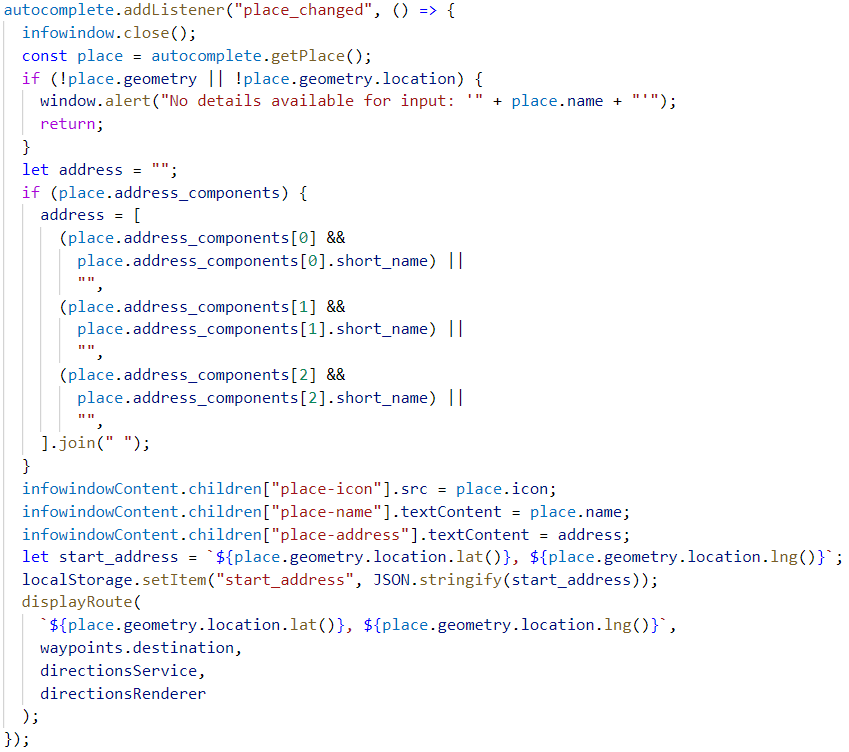
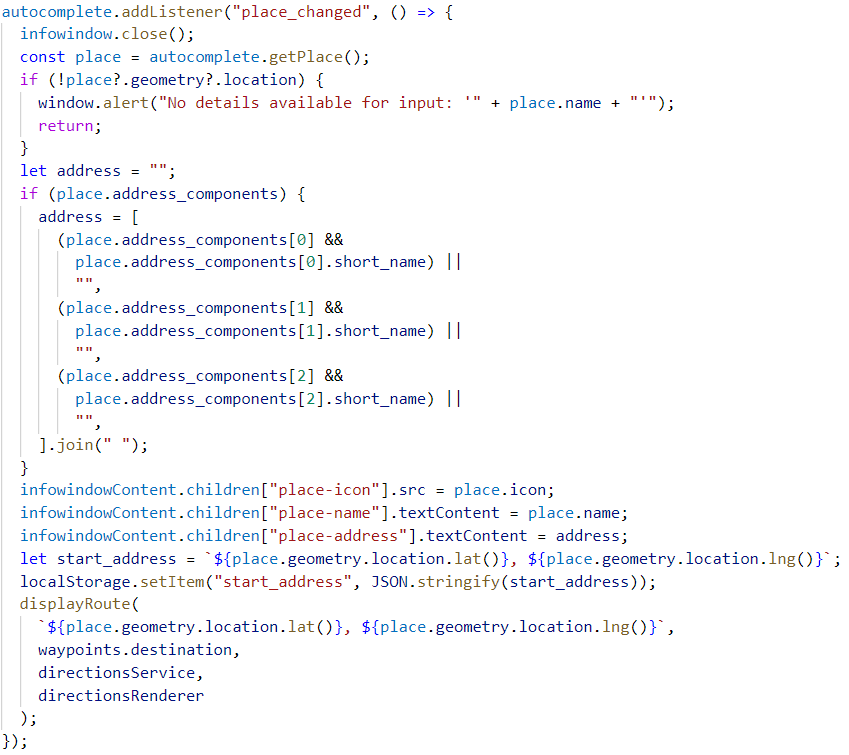
asd

Changed region(s): [[0.0, 0.0, 1.0, 1.0], [0.5512, 0.1223, 0.7962, 0.1529], [0.1531, 0.5811, 0.1837, 0.6117]]

diff --git a/public/js/autocomplete.js b/public/js/autocomplete.js
@@ -32,7 +32,7 @@ function auto1(directionsService, directionsRenderer, options) {
     autocomplete.addListener("place_changed", () => {
       infowindow.close();
       const place = autocomplete.getPlace();
-      if (!place.geometry || !place.geometry.location) {
+      if (!place?.geometry?.location) {
         window.alert("No details available for input: '" + place.name + "'");
         return;
       }
@@ -82,7 +82,7 @@ function auto2(directionsService, directionsRenderer, options) {
       infowindow2.close();
       const place2 = autocomplete2.getPlace();
   
-      if (!place2.geometry || !place2.geometry.location) {
+      if (!place2?.geometry?.location) {
         // User entered the name of a Place that was not suggested and
         // pressed the Enter key, or the Place Details request failed.
         window.alert("No details available for input: '" + place2.name + "'");
@@ -137,7 +137,7 @@ function auto3(directionsService, directionsRenderer, options) {
       infowindow3.close();
       const place3 = autocomplete3.getPlace();
   
-      if (!place3.geometry || !place3.geometry.location) {
+      if (!place3?.geometry?.location) {
         // User entered the name of a Place that was not suggested and
         // pressed the Enter key, or the Place Details request failed.
         window.alert("No details available for input: '" + place3.name + "'");
